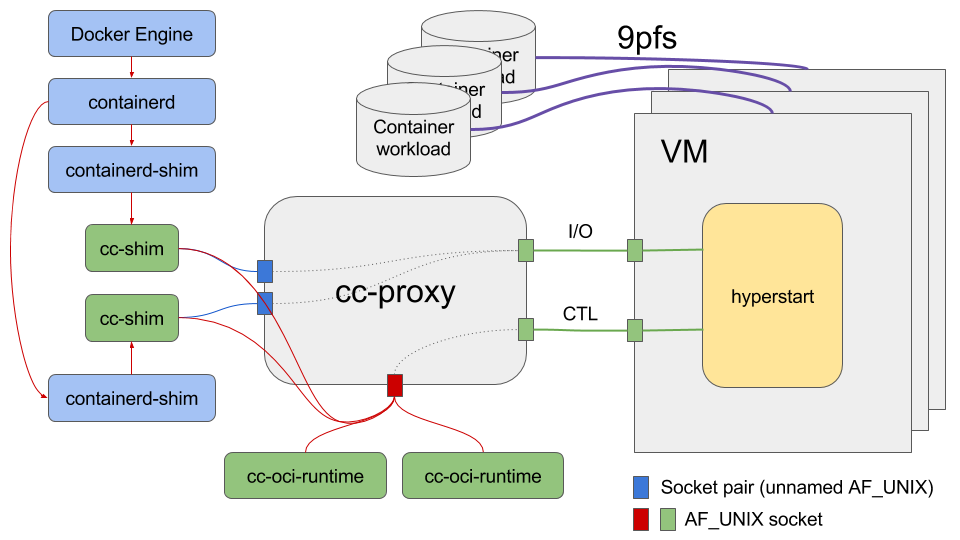
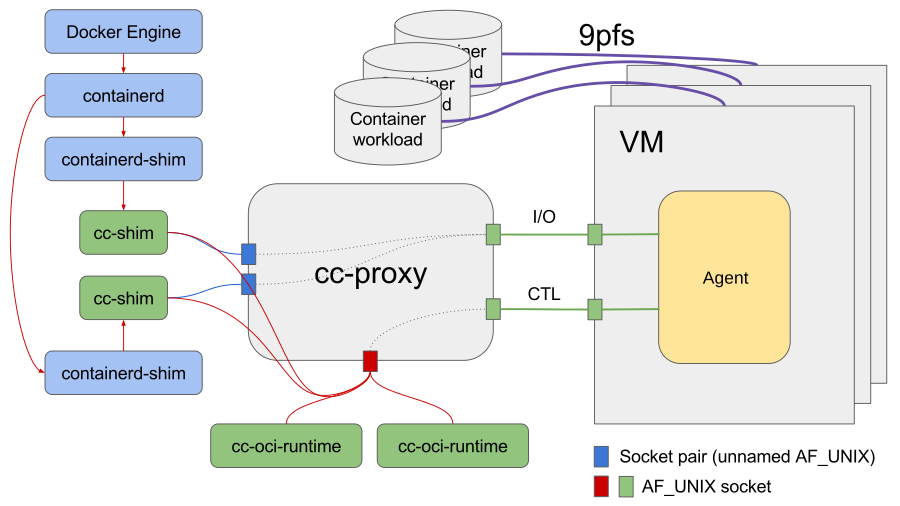
docs: arch: odp and png updates, edit out hyperstart
WIP - you need to squash this etc.

diff --git a/docs/architecture/architecture.md b/docs/architecture/architecture.md
@@ -28,6 +28,7 @@ works seamlessly with the [Docker Engine](https://www.docker.com/products/docker
 pluggable runtime architecture. In other words, one can transparently replace the
 [default Docker runtime (runc)](https://github.com/opencontainers/runc) with `cc-runtime`.
 
+![Runtime and virtcontainers](runtime-vc-relationship.png)
 ![Docker and Clear Containers](docker-cc.png)
 
 `cc-runtime` creates a QEMU/KVM virtual machine for each container the Docker engine creates.
@@ -59,7 +60,7 @@ The container workload, i.e. the actual OCI bundle rootfs, is exported from the 
 the virtual machine via a 9pfs virtio mount point. Hyperstart uses this mount point as the root
 filesystem for the container processes.
 
-![Overall architecture](overall-architecture.svg)
+![Overall architecture](overall-architecture.png)
 
 #### Hypervisor
 
